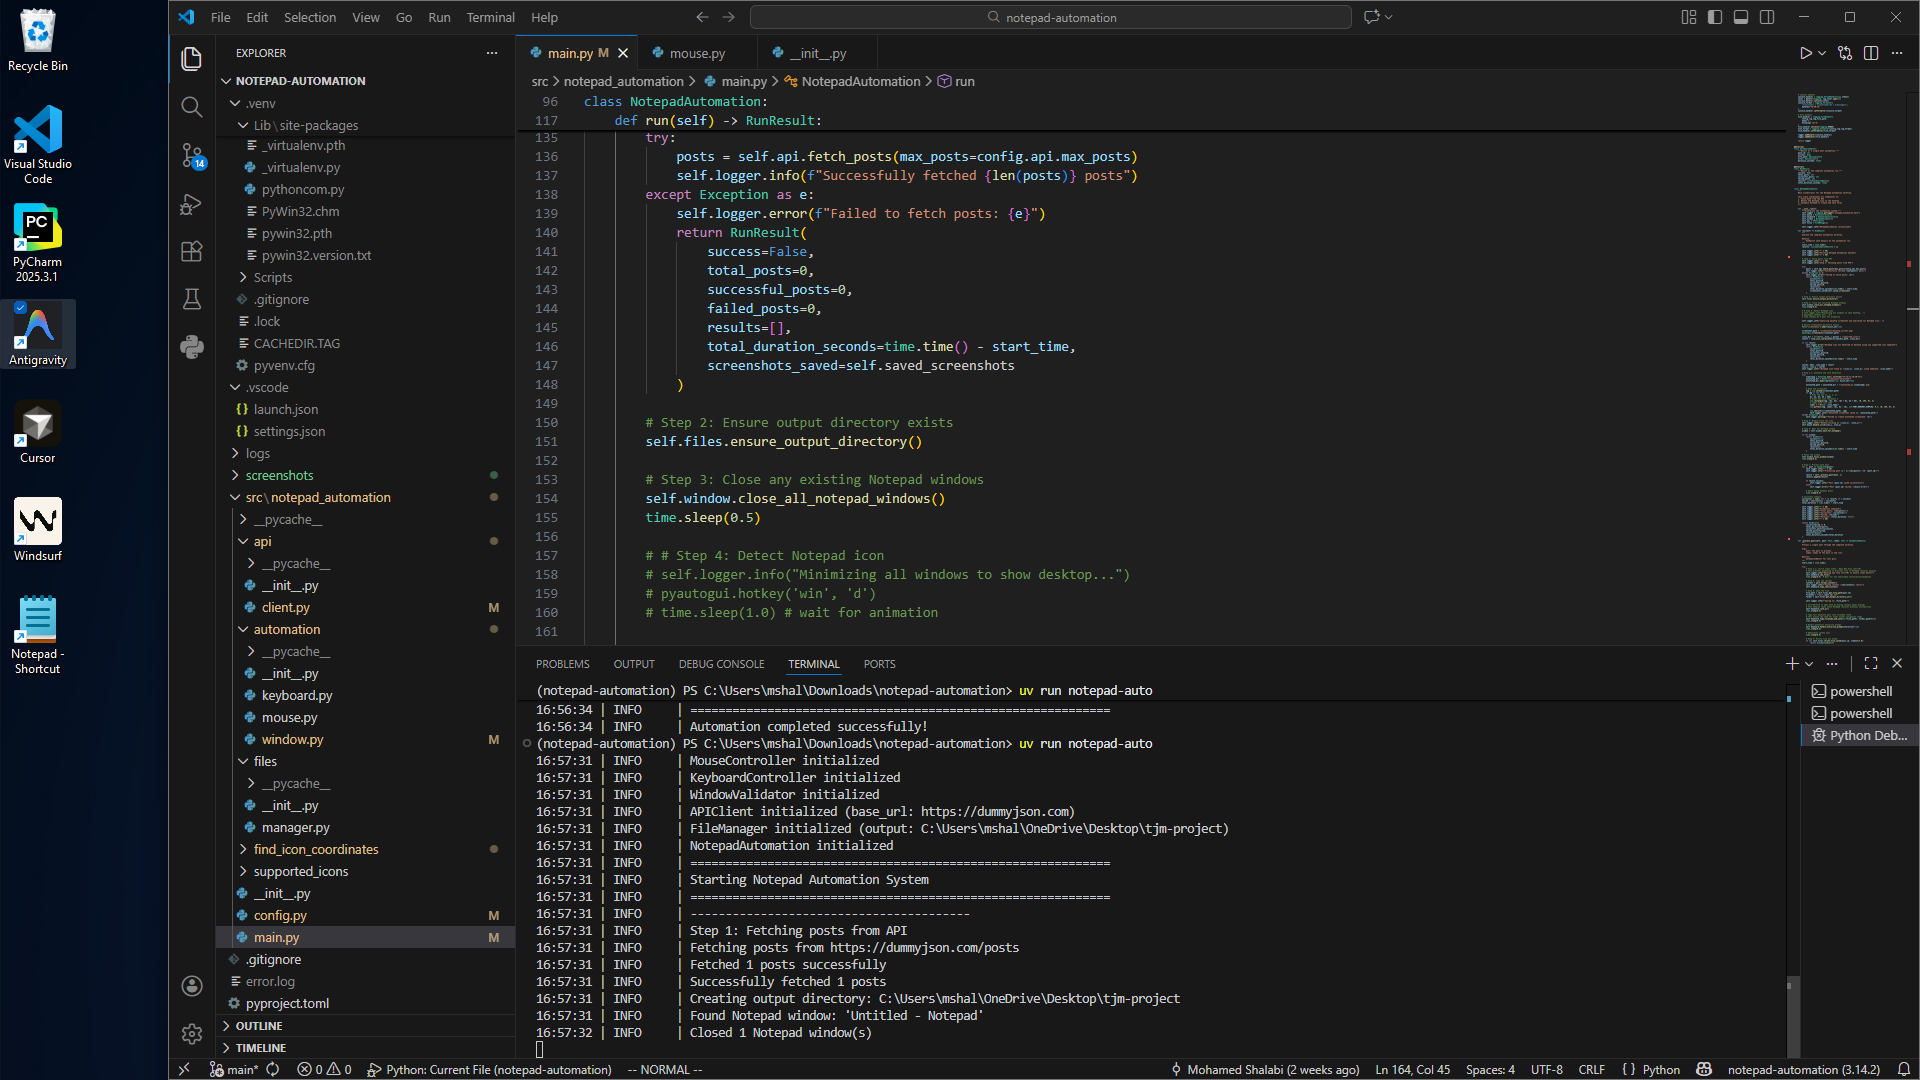
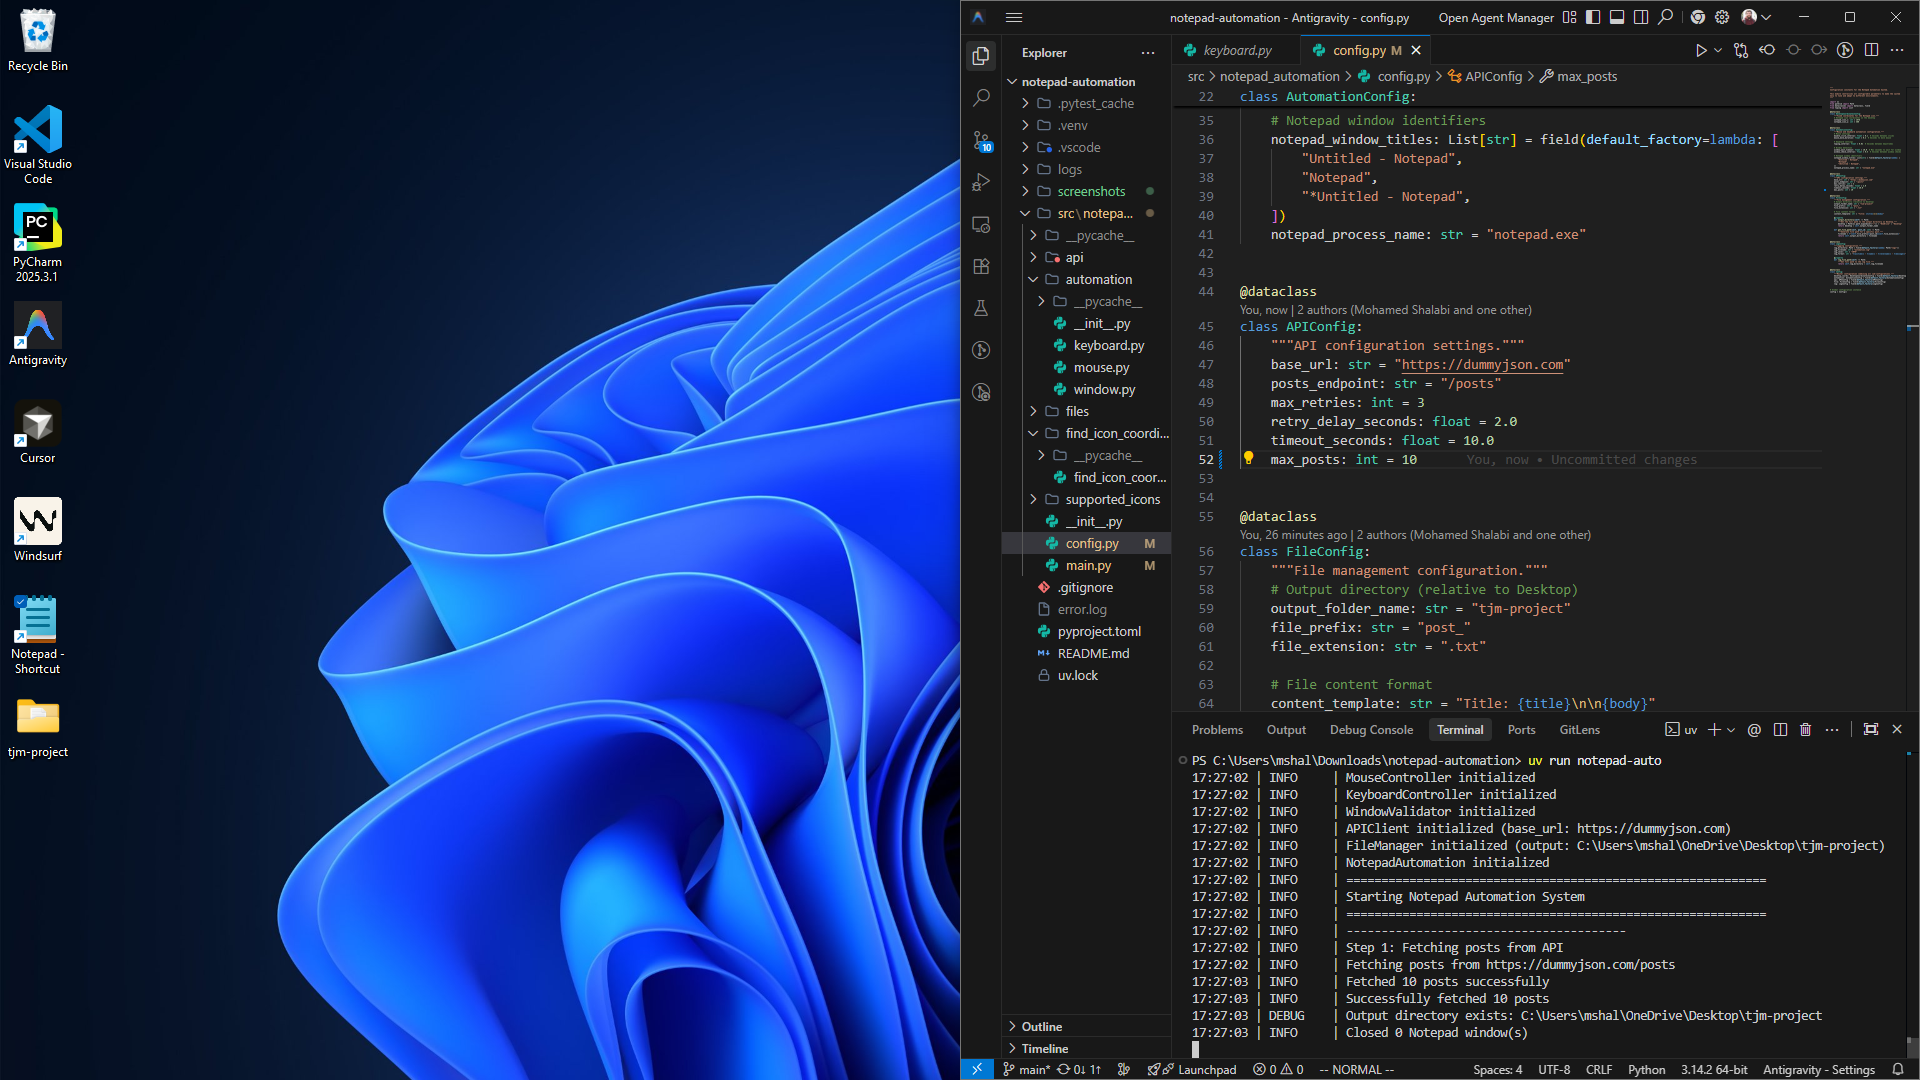
enhancements

diff --git a/src/notepad_automation/main.py b/src/notepad_automation/main.py
@@ -286,8 +286,9 @@ class NotepadAutomation:
             # Step C.1: strict clean state - Open New File (Ctrl+N)
             # This prevents appending to previous file if Notepad restores session
             self.logger.info("Opening new file (Ctrl+N) to ensure clean buffer")
-            self.keyboard.new_file()
-            time.sleep(0.5)  # Wait for new tab/window notification/animation
+            if index != 0: 
+                self.keyboard.new_file()
+                time.sleep(0.5)  # Wait for new tab/window notification/animation
             
             # Step D: Type the content
             content = post.format_content()
@@ -296,8 +297,6 @@ class NotepadAutomation:
             
             # Step E: Save the file
             file_path = self.files.get_file_path(post.id)
-            filename = f"post_{post.id}.txt"
-            folder = self.files.get_output_directory_str()
             
             self.logger.info(f"Saving to: {file_path}")
             
@@ -313,9 +312,6 @@ class NotepadAutomation:
             
             # Handle potential overwrite prompt
             self.keyboard.handle_overwrite_prompt(overwrite=True)
-            time.sleep(0.5)
-            
-            # Additional safety wait
             time.sleep(0.5)
             
             # Step F: Verify file was saved

diff --git a/src/notepad_automation/config.py b/src/notepad_automation/config.py
@@ -49,7 +49,7 @@ class APIConfig:
     max_retries: int = 3
     retry_delay_seconds: float = 2.0
     timeout_seconds: float = 10.0
-    max_posts: int = 1
+    max_posts: int = 10
 
 
 @dataclass
